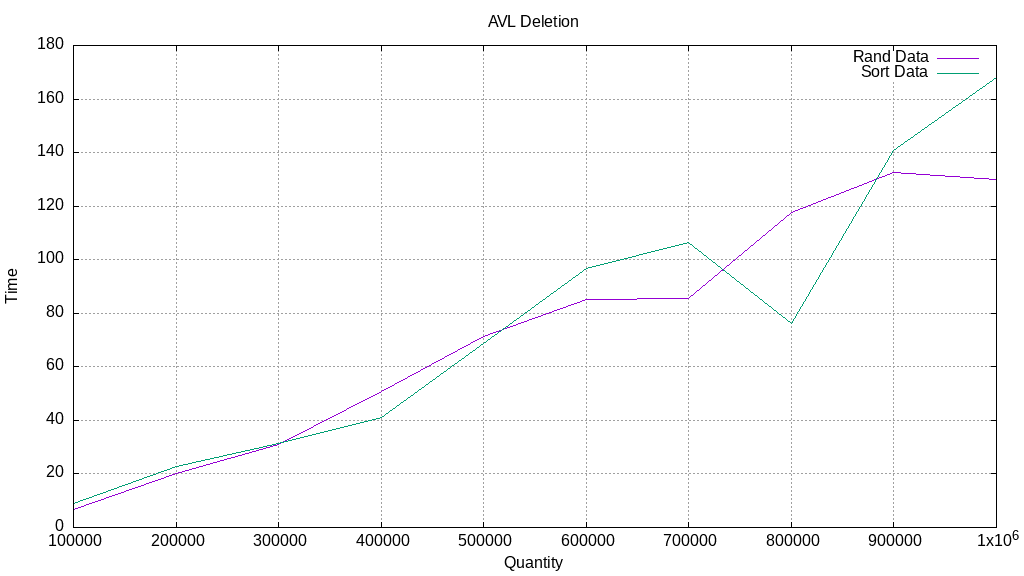
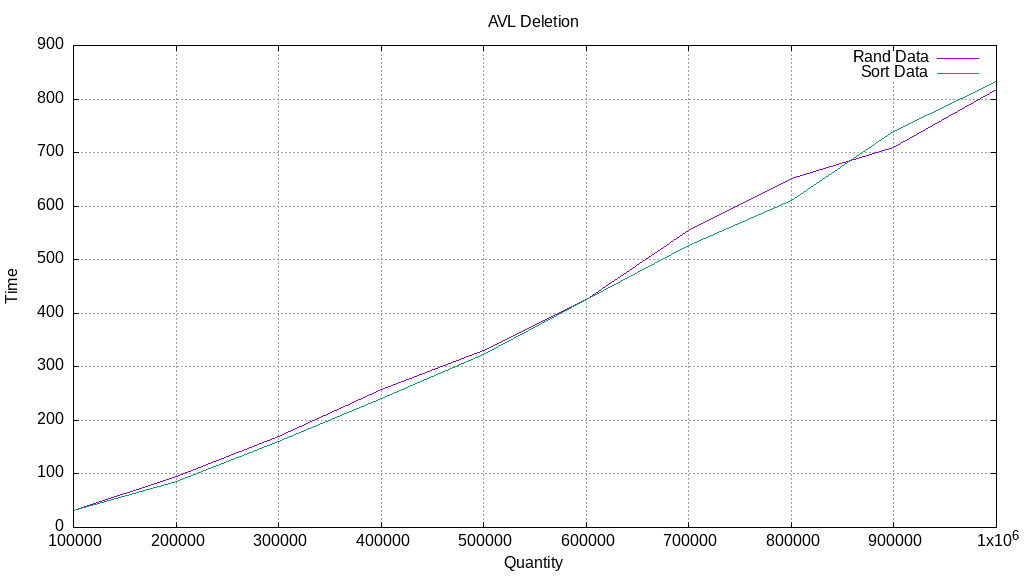
Add files via upload

diff --git a/treap.cpp b/treap.cpp
@@ -1,0 +1,237 @@
+#include <stdio.h>
+#include <malloc.h>
+#include <stdlib.h>
+#include <string.h>
+
+
+#include "treap.hpp"
+
+
+Node *NodeCtor () {
+
+    Node *new_node = (Node*) calloc(1, sizeof(Node));
+
+    new_node->key    = 0;
+    new_node->weight = 0;
+    new_node->number = 0;
+    new_node->children_count = 1;
+    new_node->left   = 0;
+    new_node->right  = 0;
+
+    return new_node;
+}
+
+void NodeDtor (Node *node) {
+
+    node->key    = 0;
+    node->weight = 0;
+    node->number = 0;
+    node->children_count = 0;
+    node->left   = 0;
+    node->right  = 0;
+
+    free(node);
+}
+
+Node *Insert (Node *root, int key) {
+
+    if (Find(root, key) != INF_MIN) return root;
+
+    Node *new_node   = NodeCtor();
+    new_node->key    = key;
+    new_node->weight = rand();
+
+    nodePair split = Split(root, key);
+
+    root = Merge(split.left, new_node);
+    return Merge(root, split.right);
+}
+
+Node *Delete (Node *root, int key) {
+
+    if (!root || Find(root, key) == INF_MIN) return root;
+
+    nodePair split_lower = Split(root, key);
+    nodePair split_upper = Split(split_lower.right, key + 1);
+
+    return Merge(split_lower.left, split_upper.right);
+}
+
+Node *Merge (Node *left, Node *right) {
+
+    if (!left)  return right;
+    if (!right) return left;
+
+    if (left->weight > right->weight) {
+
+        Node *new_left = left->right;
+        left->right = Merge(new_left, right);
+        UpdateNode(left);
+
+        return left;
+    }
+
+    Node *new_right = right->left;
+    right->left = Merge(left, new_right);
+    UpdateNode(right);
+
+    return right;
+}
+
+nodePair Split (Node *root, int key) {
+
+    if (!root) {
+
+        nodePair ret = {
+
+            .left  = 0,
+            .right = 0,
+        };
+        return ret;
+    }
+
+    if (root->key < key) {
+
+        nodePair slice = Split(root->right, key);
+        root->right = slice.left;
+        
+        UpdateNode(root);
+
+        nodePair ret = {
+
+            .left  = root,
+            .right = slice.right,
+        };
+        return ret;
+    }
+
+    nodePair slice = Split(root->left, key);
+    root->left = slice.right;
+
+    UpdateNode(root);
+    
+    nodePair ret = {
+
+        .left  = slice.left,
+        .right = root,
+    };
+    return ret;
+}
+
+int Find (Node *node, int key) {
+
+    if (!node) return INF_MIN;
+
+    if (node->key == key) return key;
+
+    if (node->key > key) return Find(node->left, key);
+    return Find(node->right, key);
+}
+
+int FindNext (Node *node, int key) {
+
+    if (!node) return INF_MIN;
+
+    if (key >= node->key) {
+
+        if (!node->right) return INF_MIN;
+        
+        int r_min = FindMin(node->right);
+        if (key >= r_min) return FindNext(node->right, key);
+        
+        return r_min;
+    }
+    
+    if (!node->left) return node->key;
+    
+    int l_max = FindMax(node->left);
+    
+    if (key < l_max) return FindNext(node->left, key);
+    
+    return node->key;
+}
+
+int FindPrev (Node *node, int key) {
+
+    if (!node) return INF_MIN;
+    
+    if (key <= node->key) {
+        
+        if (!node->left) return INF_MIN;
+        
+        int l_max = FindMax(node->left);
+        
+        if (key <= l_max) return FindPrev(node->left, key);
+        
+        return l_max;
+    }
+    
+    if (!node->right) return node->key;
+    
+    int r_min = FindMin(node->right);
+    
+    if (key > r_min) return FindPrev(node->right, key);
+    
+    return node->key;
+}
+
+int FindMax (Node *node) {
+
+    if (!node) return INF_MIN;
+
+    int max_key = 0;
+
+    Node *cur_node = node;
+    while (cur_node) {
+
+        max_key  = cur_node->key;
+        cur_node = cur_node->right;
+    }
+
+    return max_key;
+}
+
+int FindMin (Node *node) {
+
+    if (!node) return INF_MIN;
+
+    int min_key = 0;
+
+    Node *cur_node = node;
+    while (cur_node) {
+
+        min_key  = cur_node->key;
+        cur_node = cur_node->left;
+    }
+
+    return min_key;
+}
+
+void UpdateNode (Node *node) {
+
+    if (!node) return;
+
+    node->children_count = GetTreeSize(node->left) + GetTreeSize(node->right) + 1;
+}
+
+int FindKth (Node *root, int key) {
+
+    if (!root) return INF_MIN;
+
+    if (key > GetTreeSize(root)) return INF_MIN;
+
+    int l_key = GetTreeSize(root->left);
+
+    if (l_key == key) return root->key;
+
+    if (l_key <  key) return FindKth(root->right, key - l_key - 1);
+
+    return FindKth(root->left, key);
+}
+
+int GetTreeSize (Node *node) {
+
+    if (!node) return 0;
+
+    return node->children_count;
+}

diff --git a/treap.hpp b/treap.hpp
@@ -1,0 +1,39 @@
+#ifndef _TREAP_HPP_
+#define _TREAP_HPP_
+
+
+const int INF_MIN = -1000000001;
+
+
+typedef struct node {
+
+    int key, weight, number;
+    int children_count;
+    struct node *right, *left;
+
+} Node;
+
+typedef struct {
+
+    Node *left, *right;
+} nodePair;
+
+
+Node    *NodeCtor ();
+void     NodeDtor (Node *node);
+Node    *Insert   (Node *root, int key);
+Node    *Delete   (Node *root, int key);
+Node    *Merge    (Node *left, Node *right);
+nodePair Split    (Node *root, int key);
+int      Find     (Node *node, int key);
+int      FindNext (Node *node, int key);
+int      FindPrev (Node *node, int key);
+int      FindMax  (Node *node);
+int      FindMin  (Node *node);
+int      FindKth  (Node *root, int key);
+
+void     UpdateNode (Node *node);
+int GetTreeSize (Node *node);
+
+
+#endif

diff --git a/main.cpp b/main.cpp
@@ -2,7 +2,7 @@
 #include <time.h>
 #include <cstdlib>
 
-#include "AVL.hpp"
+#include "treap.hpp"
 
 
 void testRandData (const char *out_insert_file_name, const char *out_delete_file_name, int quantity);
@@ -15,8 +15,8 @@ int main () {
 
     for (int i = 100000; i <= 1000000; i += 100000) {
 
-        testRandData("AVL_randData_insert.txt", "AVL_randData_delete.txt", i);
-        testRandData("AVL_sortData_insert.txt", "AVL_sortData_delete.txt", i);
+        testRandData("Treap_randData_insert.txt", "Treap_randData_delete.txt", i);
+        testRandData("Treap_sortData_insert.txt", "Treap_sortData_delete.txt", i);
     }
 
     return 0;
